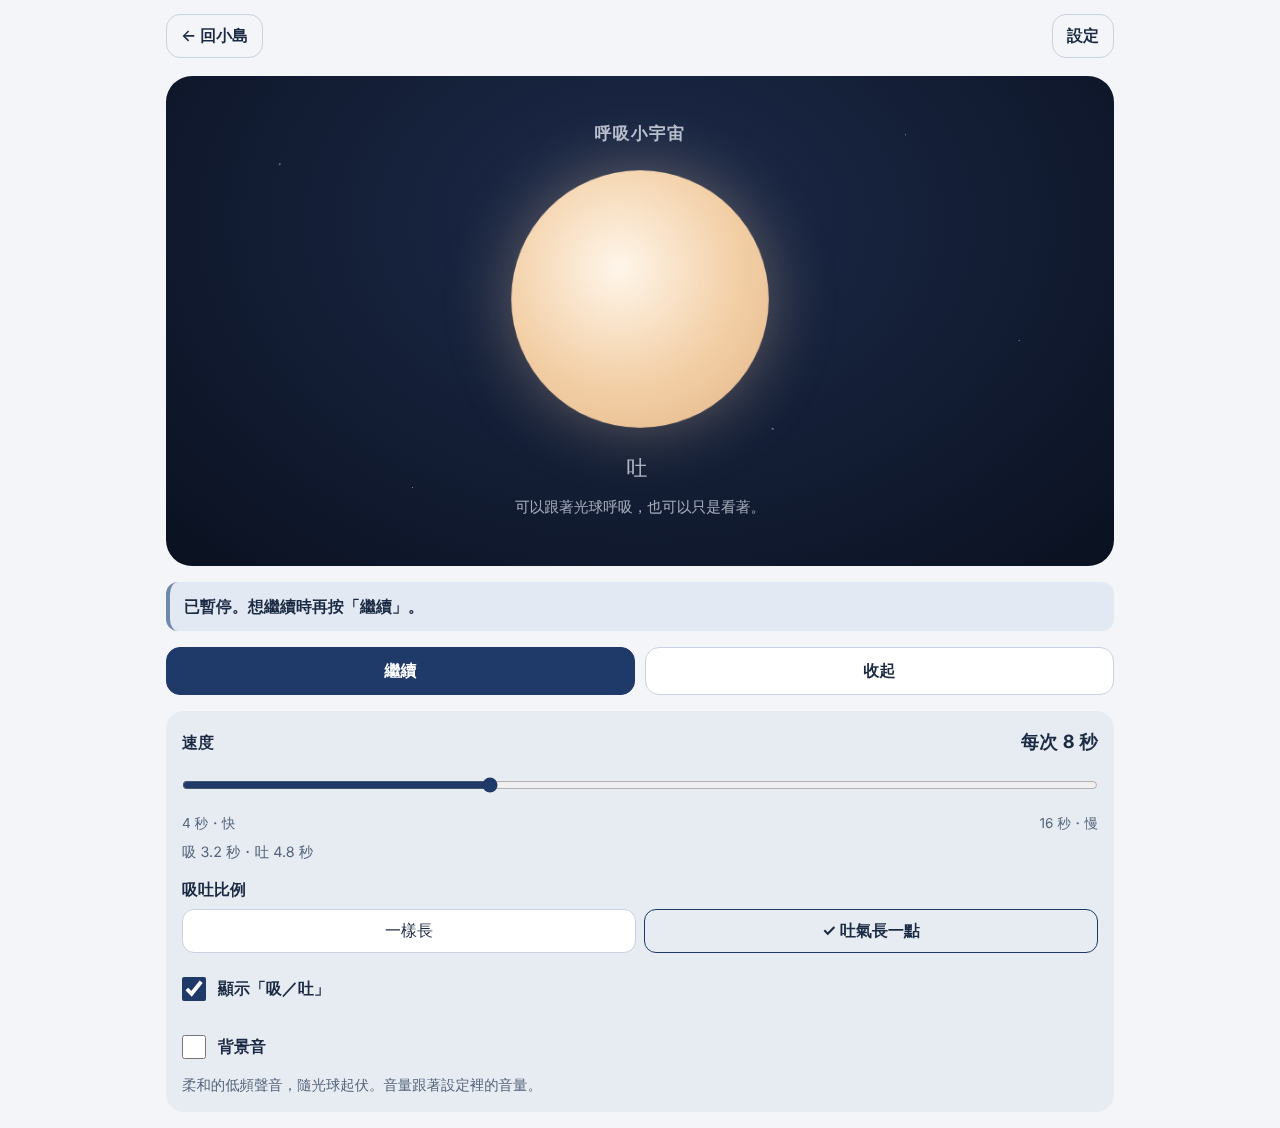
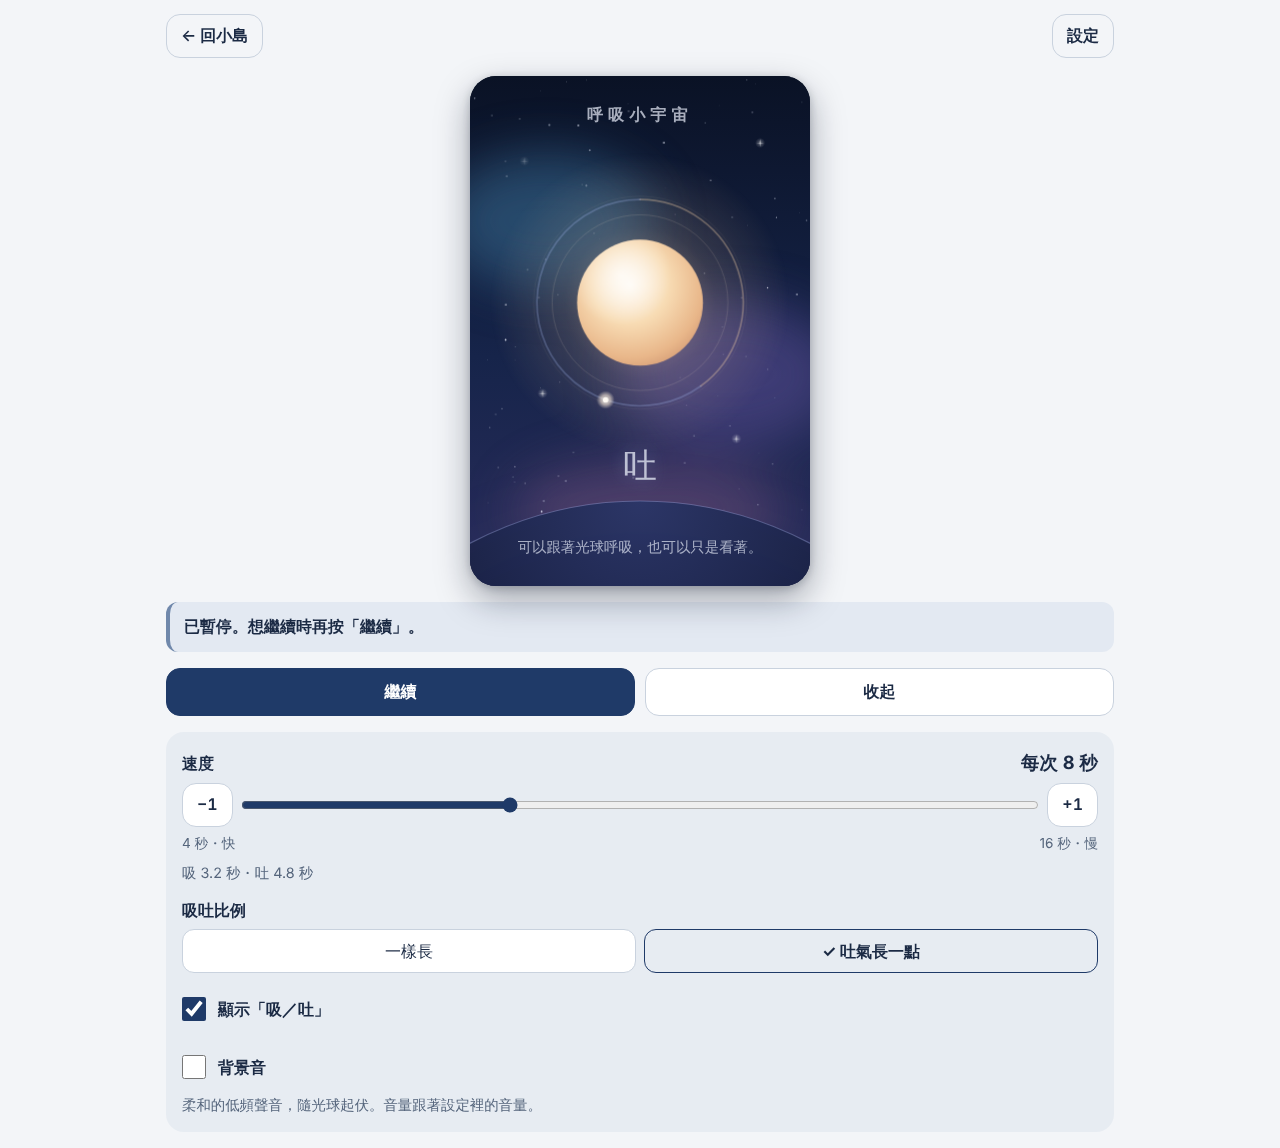
feat(breath): portrait starry-sky redesign for 呼吸小宇宙
- BreathSky SVG (600×900, sized to the screen height): night-sky
  gradient, slowly drifting nebulae, seeded stars with a few gentle
  twinkles, a distant planet horizon with a soft rim light
- Orb with warm core, sheen, breathing aura and ripples
- Breath orbit: warm arc = inhale, cool arc = exhale (follows the ratio);
  a small moon travels once around per breath
- Larger, lighter 吸／吐 with warm/cool glow
- Reduced motion: fixed orb size, no moon, no drift or twinkle
- Tests for orb size, moon position and reduced motion

Claude-Session: https://claude.ai/code/session_01Jd1MLeqydxjbdWgjn7akAn

diff --git a/src/features/breath/BreathSky.tsx b/src/features/breath/BreathSky.tsx
@@ -1,0 +1,116 @@
+import { memo } from 'react';
+import type { Ratio } from './breathMath';
+import { inhaleShare } from './breathMath';
+
+// 呼吸小宇宙的直式星空（600×900）。只有光球、光暈與軌道上的小月亮會隨呼吸變化；
+// 星雲慢慢飄、少數星星慢慢閃，其餘都是靜止的，維持低刺激。
+export const SKY_W = 600;
+export const SKY_H = 900;
+const CX = 300;
+const CY = 400;
+const RING_R = 182;
+
+// 固定種子的星星：每次進來位置都一樣，不會閃來閃去。
+function seeded(seed: number) {
+  let s = seed;
+  return () => { s = (s * 16807) % 2147483647; return (s - 1) / 2147483646; };
+}
+const STARS = (() => {
+  const rand = seeded(20261023);
+  return Array.from({ length: 90 }, (_, i) => {
+    const x = rand() * SKY_W; const y = rand() * (SKY_H - 120);
+    const near = Math.hypot(x - CX, y - CY) < RING_R + 30; // 不要擠在光球後面
+    return { x, y, r: 0.5 + rand() * 1.3, o: near ? 0.2 : 0.3 + rand() * 0.55, twinkle: i % 7 === 0, delay: rand() * 8, dur: 5 + rand() * 5 };
+  });
+})();
+const BRIGHT = [{ x: 96, y: 150 }, { x: 512, y: 118 }, { x: 470, y: 640 }, { x: 128, y: 560 }];
+
+const Backdrop = memo(function Backdrop() {
+  return (
+    <>
+      <defs>
+        <linearGradient id="sky-bg" x1="0" y1="0" x2="0" y2="1">
+          <stop offset="0" stopColor="#0a1225" /><stop offset="0.55" stopColor="#16244a" /><stop offset="1" stopColor="#2a2d5c" />
+        </linearGradient>
+        <filter id="sky-soft" x="-50%" y="-50%" width="200%" height="200%"><feGaussianBlur stdDeviation="46" /></filter>
+        <radialGradient id="sky-star"><stop offset="0" stopColor="#fff" /><stop offset="1" stopColor="#fff" stopOpacity="0" /></radialGradient>
+        <radialGradient id="planet" cx="50%" cy="0%" r="100%">
+          <stop offset="0" stopColor="#2b3566" /><stop offset="0.35" stopColor="#151c3c" /><stop offset="1" stopColor="#0b1027" />
+        </radialGradient>
+      </defs>
+      <rect width={SKY_W} height={SKY_H} fill="url(#sky-bg)" />
+      {/* 星雲：三團柔和的色霧，慢慢飄移 */}
+      <g className="sky-nebula" filter="url(#sky-soft)" opacity="0.55">
+        <ellipse cx="150" cy="250" rx="190" ry="120" fill="#3b6f96" />
+        <ellipse cx="470" cy="520" rx="200" ry="130" fill="#5d4f97" />
+        <ellipse cx="330" cy="760" rx="240" ry="90" fill="#8a5d86" opacity="0.7" />
+      </g>
+      <g className="sky-stars">
+        {STARS.map((s, i) => (
+          <circle key={i} cx={s.x} cy={s.y} r={s.r} fill="#e9eefb" opacity={s.o}
+            className={s.twinkle ? 'sky-twinkle' : undefined}
+            style={s.twinkle ? { animationDelay: `${s.delay}s`, animationDuration: `${s.dur}s` } : undefined} />
+        ))}
+        {BRIGHT.map((b, i) => (
+          <g key={i} transform={`translate(${b.x} ${b.y})`} className="sky-twinkle" style={{ animationDelay: `${i * 1.7}s`, animationDuration: '9s' }}>
+            <circle r="9" fill="url(#sky-star)" opacity="0.35" />
+            <path d="M0 -7 L0.8 0 L0 7 L-0.8 0 Z M-7 0 L0 -0.8 L7 0 L0 0.8 Z" fill="#fff" opacity="0.8" />
+          </g>
+        ))}
+      </g>
+      {/* 遠方行星的弧形地平線，邊緣有一圈淡淡的光 */}
+      <circle cx={CX} cy="1390" r="640" fill="url(#planet)" />
+      <circle cx={CX} cy="1390" r="640" fill="none" stroke="#a9b4ee" strokeOpacity="0.35" strokeWidth="2" />
+      <circle cx={CX} cy="1390" r="646" fill="none" stroke="#a9b4ee" strokeOpacity="0.12" strokeWidth="10" filter="url(#sky-soft)" />
+    </>
+  );
+});
+
+// 在圓上取點（0 在正上方，順時針）
+const at = (turn: number, r = RING_R) => {
+  const a = turn * 2 * Math.PI - Math.PI / 2;
+  return [CX + r * Math.cos(a), CY + r * Math.sin(a)] as const;
+};
+const arc = (from: number, to: number) => {
+  const [x0, y0] = at(from); const [x1, y1] = at(to);
+  return `M ${x0} ${y0} A ${RING_R} ${RING_R} 0 ${to - from > 0.5 ? 1 : 0} 1 ${x1} ${y1}`;
+};
+
+export function BreathSky({ level, position, ratio, still }: { level: number; position: number; ratio: Ratio; still: boolean }) {
+  const share = inhaleShare(ratio);
+  const lv = still ? 0.6 : level;
+  const orbR = 62 + 58 * lv;
+  const [mx, my] = at(position);
+  return (
+    <svg className="breath-sky" viewBox={`0 0 ${SKY_W} ${SKY_H}`} aria-hidden="true" focusable="false">
+      <Backdrop />
+      <defs>
+        <radialGradient id="orb-body" cx="42%" cy="36%" r="68%">
+          <stop offset="0" stopColor="#fff9f0" /><stop offset="0.45" stopColor="#f8dcb4" /><stop offset="0.85" stopColor="#e9b78a" /><stop offset="1" stopColor="#d9a27a" />
+        </radialGradient>
+        <radialGradient id="orb-aura"><stop offset="0" stopColor="#ffe3bf" stopOpacity="0.55" /><stop offset="0.5" stopColor="#f3c99d" stopOpacity="0.18" /><stop offset="1" stopColor="#f3c99d" stopOpacity="0" /></radialGradient>
+        <radialGradient id="orb-sheen" cx="35%" cy="28%" r="40%"><stop offset="0" stopColor="#fff" stopOpacity="0.7" /><stop offset="1" stopColor="#fff" stopOpacity="0" /></radialGradient>
+        <radialGradient id="moon"><stop offset="0" stopColor="#fff" /><stop offset="0.5" stopColor="#ffeeda" stopOpacity="0.9" /><stop offset="1" stopColor="#ffeeda" stopOpacity="0" /></radialGradient>
+      </defs>
+
+      {/* 光暈：吸氣時擴大、變亮 */}
+      <circle cx={CX} cy={CY} r={orbR * 2.4} fill="url(#orb-aura)" opacity={0.55 + 0.45 * lv} />
+      <circle cx={CX} cy={CY} r={orbR + 22 + 26 * lv} fill="none" stroke="#ffe7c9" strokeOpacity={0.08 + 0.1 * lv} strokeWidth="1.5" />
+      <circle cx={CX} cy={CY} r={orbR + 48 + 34 * lv} fill="none" stroke="#ffe7c9" strokeOpacity={0.05 + 0.06 * lv} strokeWidth="1" />
+
+      {/* 軌道：暖色是吸氣的部分、冷色是吐氣的部分；小月亮沿著軌道走一圈就是一次呼吸 */}
+      <path d={arc(0, share)} fill="none" stroke="#f6d2a6" strokeOpacity="0.35" strokeWidth="3" strokeLinecap="round" />
+      <path d={arc(share, 0.9999)} fill="none" stroke="#9fb4e8" strokeOpacity="0.3" strokeWidth="3" strokeLinecap="round" />
+      {!still && (
+        <g className="breath-moon">
+          <circle cx={mx} cy={my} r="16" fill="url(#moon)" opacity="0.7" />
+          <circle cx={mx} cy={my} r="5" fill="#fffaf3" />
+        </g>
+      )}
+
+      {/* 光球本體 */}
+      <circle cx={CX} cy={CY} r={orbR} fill="url(#orb-body)" />
+      <circle cx={CX} cy={CY} r={orbR} fill="url(#orb-sheen)" />
+    </svg>
+  );
+}

diff --git a/src/features/breath/breath.css b/src/features/breath/breath.css
@@ -1,35 +1,36 @@
-/* 呼吸小宇宙：刻意固定為深色星空場景（淺色主題也一樣），光球是唯一的焦點 */
+/* 呼吸小宇宙：刻意固定為深色星空場景（淺色主題也一樣），直式、依螢幕高度放到最大；光球是唯一的焦點 */
 .breath-scene {
-  --space-top: #1d2b4b; --space-bottom: #0a1120; --star: rgb(230 236 248 / 0.55);
-  --orb-core: #fff6ea; --orb-mid: #f3cfa6; --orb-edge: #e2b487; --orb-glow: rgb(243 207 166 / 0.35); --scene-text: #dfe6f2;
-  position: relative; overflow: hidden; border-radius: 26px;
-  display: flex; flex-direction: column; align-items: center; gap: 12px;
-  padding: 20px 16px 22px; min-height: min(68dvh, 560px); justify-content: center;
-  background:
-    radial-gradient(1.5px 1.5px at 12% 18%, var(--star), transparent),
-    radial-gradient(1px 1px at 78% 12%, var(--star), transparent),
-    radial-gradient(1.5px 1.5px at 64% 72%, var(--star), transparent),
-    radial-gradient(1px 1px at 26% 84%, var(--star), transparent),
-    radial-gradient(1px 1px at 90% 54%, var(--star), transparent),
-    radial-gradient(1.5px 1.5px at 40% 40%, var(--star), transparent),
-    radial-gradient(ellipse at 50% 30%, var(--space-top), var(--space-bottom));
-  color: var(--scene-text);
+  --scene-text: #e6ebf7;
+  position: relative; overflow: hidden; border-radius: 26px; margin: 0 auto; align-self: center;
+  width: max(min(100%, 280px), min(100%, calc((100dvh - 210px) * 600 / 900)));
+  max-width: 100%; aspect-ratio: 600 / 900; background: #0a1225; color: var(--scene-text);
+  box-shadow: 0 14px 34px rgb(10 18 37 / 0.35), 0 2px 8px rgb(10 18 37 / 0.2);
 }
-.breath-scene > * { margin: 0; }
-.breath-scene__title { font-size: 1.05rem; font-weight: 600; letter-spacing: 0.08em; opacity: 0.8; }
+.breath-sky { position: absolute; inset: 0; width: 100%; height: 100%; display: block; }
+.breath-scene > p, .breath-scene > h1 { position: absolute; left: 0; right: 0; margin: 0; text-align: center; padding: 0 16px; }
+.breath-scene__title { top: 5%; font-size: 1rem; font-weight: 600; letter-spacing: 0.32em; opacity: 0.72; }
 .breath-scene__title:focus { outline: none; }
 .breath-scene__title:focus-visible { outline: 3px solid var(--scene-text); outline-offset: 4px; border-radius: 6px; }
-.breath-orb {
-  width: min(62vw, 280px); max-width: 100%; aspect-ratio: 1; border-radius: 50%;
-  background: radial-gradient(circle at 42% 38%, var(--orb-core), var(--orb-mid) 55%, var(--orb-edge));
-  box-shadow: 0 0 calc(30px + 50px * var(--level)) var(--orb-glow);
-  transform: scale(calc(0.55 + 0.45 * var(--level)));
-  will-change: transform;
+/* 吸／吐：落在光球與地平線之間，換字時輕輕淡入 */
+.breath-word {
+  top: 71%; font-size: clamp(1.6rem, 7vw, 2.1rem); font-weight: 300; letter-spacing: 0.6em; text-indent: 0.6em;
+  min-height: 1.6em; text-shadow: 0 0 18px rgb(255 226 190 / 0.45); animation: breath-word 0.9s ease;
 }
-.breath-word { font-size: 1.3rem; letter-spacing: 0.3em; opacity: 0.75; min-height: 1.6em; }
-.breath-scene__intro { font-size: 0.92rem; opacity: 0.7; text-align: center; }
+.breath-scene[data-phase="exhale"] .breath-word { text-shadow: 0 0 18px rgb(170 190 240 / 0.5); animation-name: breath-word-b; }
+.breath-scene__intro { bottom: 5.5%; font-size: 0.9rem; opacity: 0.68; }
+@keyframes breath-word { from { opacity: 0.2; } to { opacity: 0.9; } }
+@keyframes breath-word-b { from { opacity: 0.2; } to { opacity: 0.9; } }
+.breath-word { opacity: 0.9; }
+
+.sky-nebula { animation: sky-drift 70s ease-in-out infinite alternate; }
+.sky-twinkle { animation: sky-twinkle 7s ease-in-out infinite; }
+@keyframes sky-drift { from { transform: translate(-14px, 6px); } to { transform: translate(14px, -8px); } }
+@keyframes sky-twinkle { 0%, 100% { opacity: 0.25; } 50% { opacity: 0.9; } }
+
 .breath-panel { padding: 16px; border-radius: 18px; background: var(--surface-2); }
 
-/* 減少動態：光球不縮放，改以文字提示吸吐 */
-:root[data-motion="reduced"] .breath-orb { transform: scale(0.82); box-shadow: 0 0 50px var(--orb-glow); }
-@media (prefers-reduced-motion: reduce) { .breath-orb { transform: scale(0.82); box-shadow: 0 0 50px var(--orb-glow); } }
+/* 減少動態：光球不縮放、星雲不飄、星星不閃；以文字提示吸吐 */
+.breath-scene--still .sky-nebula, .breath-scene--still .sky-twinkle, .breath-scene--still .breath-word { animation: none; }
+@media (prefers-reduced-motion: reduce) {
+  .sky-nebula, .sky-twinkle, .breath-word { animation: none; }
+}

diff --git a/src/features/breath/BreathScreen.tsx b/src/features/breath/BreathScreen.tsx
@@ -1,4 +1,4 @@
-import { useCallback, useEffect, useId, useState, type CSSProperties } from 'react';
+import { useCallback, useEffect, useId, useState } from 'react';
 import type { EnergyRuntimeDependencies } from '../energy/core/types';
 import { OptionGroup } from '../energy/ui/components/OptionGroup';
 import { TouchRange } from '../energy/ui/components/TouchRange';
@@ -6,6 +6,7 @@ import { copy as energyCopy } from '../energy/ui/copy';
 import { TopBar } from '../energy/ui/components/TopBar';
 import { useWakeLock } from '../energy/ui/hooks/useWakeLock';
 import { BREATH_DEFAULT, BREATH_MAX, BREATH_MIN, breathAt, phaseSeconds, type Ratio } from './breathMath';
+import { BreathSky } from './BreathSky';
 import { breathCopy as copy } from './copy';
 import { useAmbient } from './useAmbient';
 import { useBreathClock } from './useBreathClock';
@@ -70,15 +71,14 @@ export function BreathScreen({ runtime, remember, volume, reducedMotion, onOpenS
   const resume = () => { if (ambientOn) ambient.unlock(); setPausedByHidden(false); setRunning(true); };
   const toggleAmbient = (on: boolean) => { if (on) ambient.unlock(); setAmbientOn(on); };
 
-  const orbStyle = { '--level': reducedMotion ? 0.6 : level } as CSSProperties;
   const showWord = prefs.showText || reducedMotion;
 
   return (
     <div className="screen feature breath">
       <TopBar label={copy.title} onOpenSettings={onOpenSettings} />
-      <div className="breath-scene">
+      <div className={`breath-scene${reducedMotion ? ' breath-scene--still' : ''}`} data-phase={phase}>
+        <BreathSky level={level} position={position} ratio={prefs.ratio} still={reducedMotion} />
         <h1 tabIndex={-1} data-screen-heading className="breath-scene__title">{copy.title}</h1>
-        <div className="breath-orb" style={orbStyle} data-phase={phase} aria-hidden="true" />
         <p className="breath-word" aria-hidden={!showWord}>{showWord ? (phase === 'inhale' ? copy.inhale : copy.exhale) : ' '}</p>
         <p className="breath-scene__intro">{copy.intro}</p>
       </div>

diff --git a/src/features/breath/breathSky.test.tsx b/src/features/breath/breathSky.test.tsx
@@ -1,0 +1,27 @@
+// @vitest-environment jsdom
+import { cleanup, render } from '@testing-library/react';
+import { afterEach, describe, expect, it } from 'vitest';
+import { BreathSky } from './BreathSky';
+
+afterEach(cleanup);
+const orbR = () => Number(document.querySelectorAll('circle[fill="url(#orb-body)"]')[0].getAttribute('r'));
+const moon = () => document.querySelector('.breath-moon circle:last-child');
+
+describe('呼吸小宇宙星空', () => {
+  it('光球隨吸吐變大變小；小月亮沿軌道走，一圈就是一次呼吸', () => {
+    const { rerender } = render(<BreathSky level={0} position={0} ratio="even" still={false} />);
+    const small = orbR();
+    expect(Number(moon()!.getAttribute('cx'))).toBeCloseTo(300, 0); // 起點在正上方
+    rerender(<BreathSky level={1} position={0.25} ratio="even" still={false} />);
+    expect(orbR()).toBeGreaterThan(small * 1.8);
+    expect(Number(moon()!.getAttribute('cx'))).toBeGreaterThan(470); // 四分之一圈在右側
+  });
+
+  it('減少動態：光球大小固定、沒有移動的小月亮', () => {
+    const { rerender } = render(<BreathSky level={0} position={0.1} ratio="longExhale" still />);
+    const r = orbR();
+    rerender(<BreathSky level={1} position={0.3} ratio="longExhale" still />);
+    expect(orbR()).toBe(r);
+    expect(moon()).toBeNull();
+  });
+});

diff --git a/docs/DECISIONS.md b/docs/DECISIONS.md
@@ -115,3 +115,12 @@
   1. 引導時萌寵是靜態圖，調幾秒看起來都一樣 → 萌寵改為跟著節奏起伏：吐氣舉起時慢慢升高、吸氣放下時慢慢回到地面，接觸陰影同步變淡；暫停時停在原處；減少動態時保持靜止。
   2. 手機上按「開始引導」後畫面停在下方，萌寵被捲到螢幕外 → 換畫面時先捲回頂端再移焦點。
   3. 手機上的原生滑桿要剛好按住小圓點才拖得動（iPhone 點軌道沒有反應），橫向拖動還可能被瀏覽器當成「滑動換頁」 → 新增 `TouchRange`：手指按在軌道任何位置就跳到該值並跟著拖動（`touch-action: pan-y`），兩側加上 −1／+1 秒按鈕；呼吸小宇宙的節奏與設定裡的音量滑桿一併套用。
+
+## 2026-10-23 呼吸小宇宙改版
+- 使用者詢問「呼吸小宇宙的畫面可以設計得更漂亮嗎？」。改為直式星空場景（邏輯 600×900，依螢幕高度放到最大，與萌寵陪伴屋一致）：
+  - 背景：深藍到藍紫的夜空、三團慢慢飄移的柔和星雲（藍、紫、玫瑰色）、固定種子的星星（少數慢慢閃爍、四顆帶十字光芒），底部是遠方行星的弧形地平線與淡淡的邊光。
+  - 光球：暖色核心與高光、隨吸氣擴大變亮的光暈與兩圈漣漪。
+  - 呼吸軌道：光球外一圈軌道，暖色段是吸氣、冷色段是吐氣；一顆小月亮沿軌道走一圈就是一次呼吸，不看文字也知道現在在哪一段（吐氣長一點時，冷色段跟著變長）。
+  - 「吸／吐」改為較大的細字，吸氣時帶暖光、吐氣時帶冷光。
+- 減少動態：光球大小固定、沒有小月亮、星雲不飄、星星不閃，以文字提示吸吐。
+- 仍維持：沒有次數、沒有目標；進來就開始，背景時暫停、回來需手動繼續。
